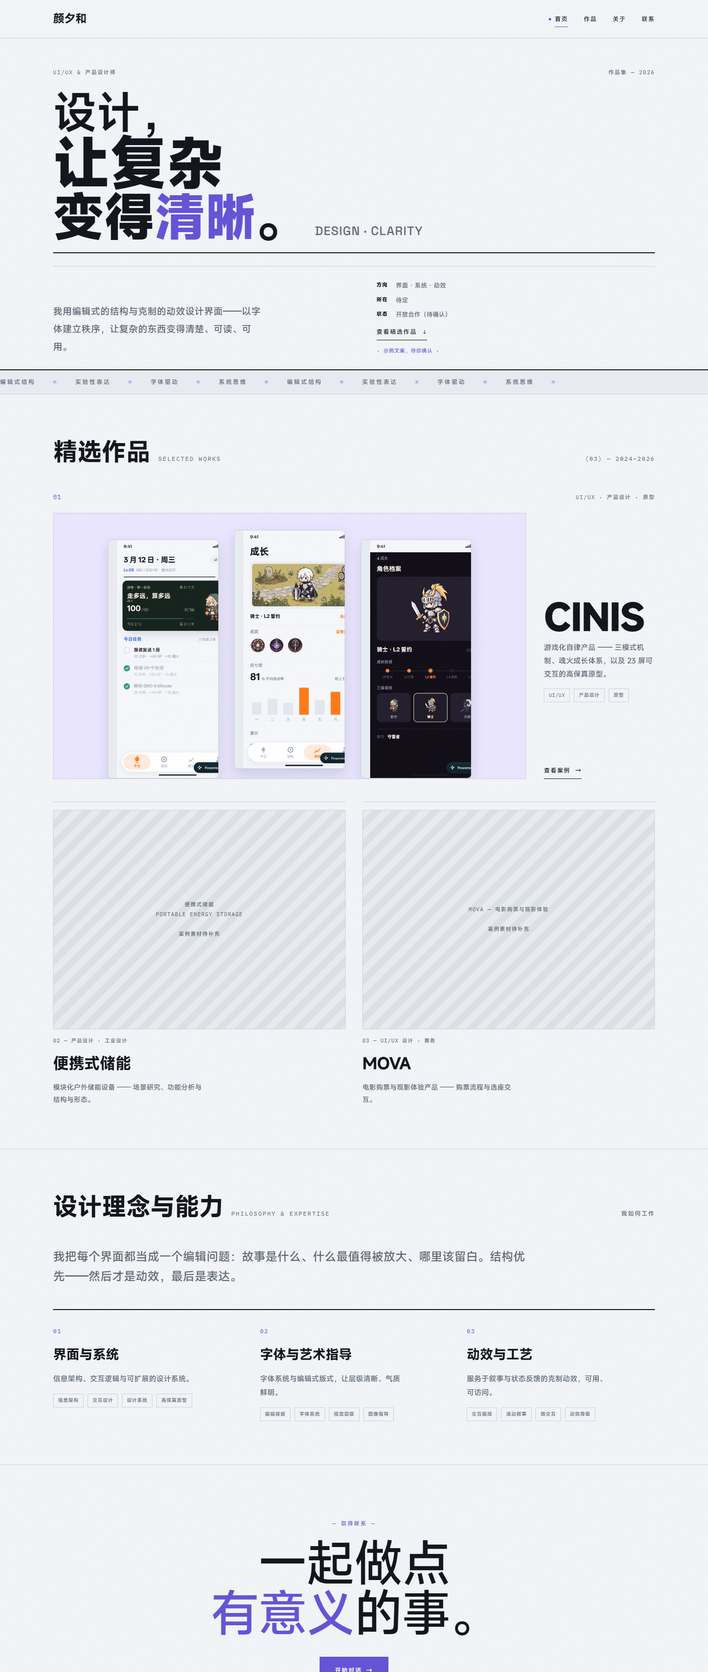
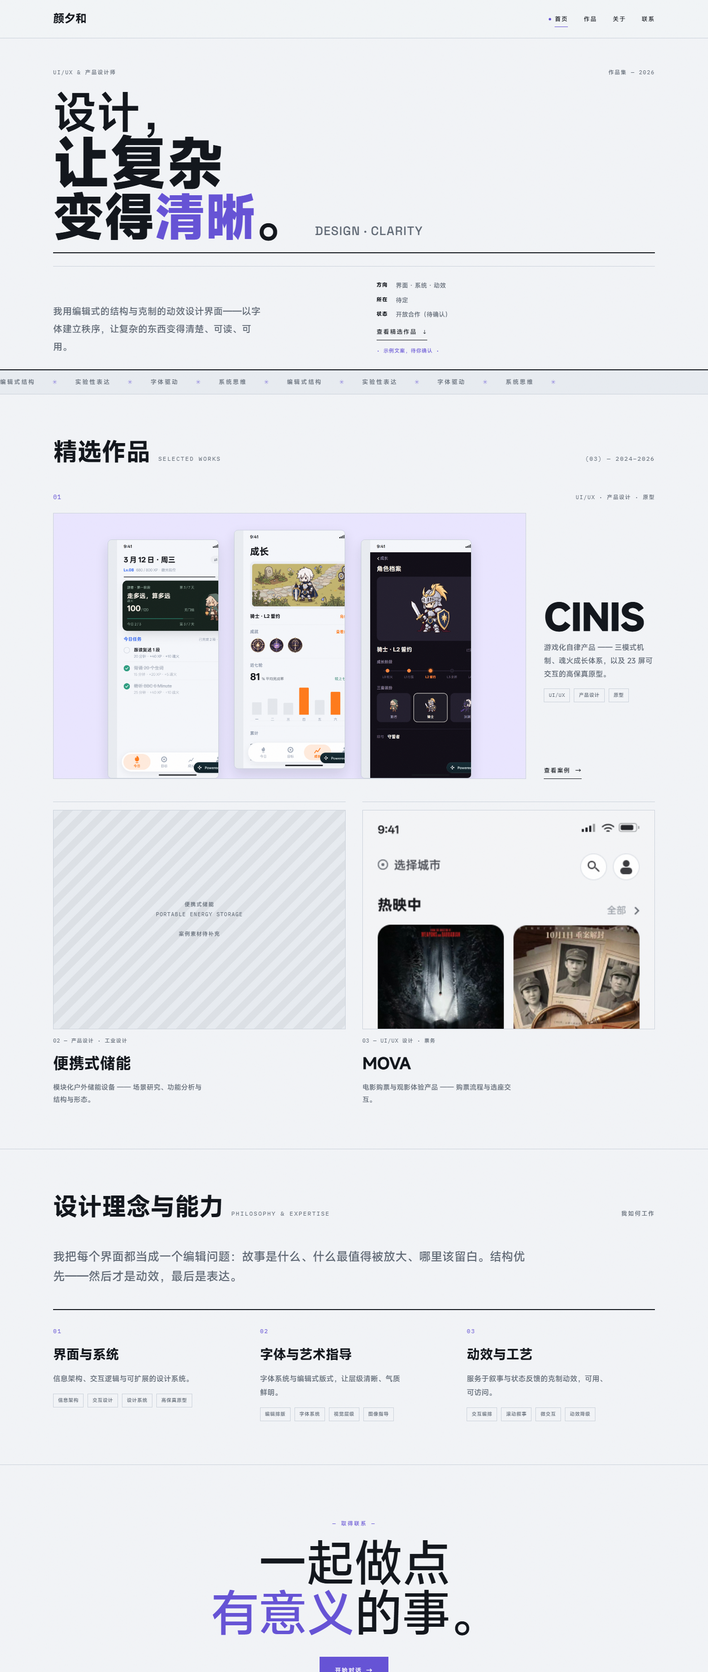
feat(mova): case study page (13 sections) + wire cards; verify preview
- New mova.html: hero duo (seat-select + e-ticket), sessions by time/cinema, seat interaction (overview/zoom/selected), checkout/payment/e-ticket, long-image scroll+full-view, missing-material placeholders
- index/works MOVA cards -> mova.html with real cover
- style.css MOVA case styles; assets/mova 15 PNG used as-is
- docs: PHASE-08 report; correct image encoding (PNG, not WebP)

Changed region(s): [[0.5312, 0.4676, 0.9062, 0.6235]]

diff --git a/experiments/art-direction/direction-b-modern-editorial/mova.html b/experiments/art-direction/direction-b-modern-editorial/mova.html
@@ -1,0 +1,187 @@
+<!doctype html>
+<html lang="zh-CN">
+<head>
+<meta charset="utf-8"><meta name="viewport" content="width=device-width,initial-scale=1">
+<title>MOVA — 电影购票体验 · 案例研究 · 颜夕和</title>
+<meta name="description" content="MOVA 电影购票与观影体验案例：影片详情 → 场次筛选 → 选座 → 确认订单 → 支付 → 电子票，一条完整的购票体验。">
+<meta property="og:type" content="article"><meta property="og:locale" content="zh_CN">
+<meta property="og:site_name" content="颜夕和 · Portfolio">
+<meta property="og:title" content="MOVA — 电影购票体验 · 颜夕和">
+<meta property="og:description" content="MOVA 电影购票与观影体验：从查看场次、选座到获取电子票的完整购票体验。">
+<script>document.documentElement.className+=' js';</script>
+<link rel="preconnect" href="https://fonts.googleapis.com"><link rel="preconnect" href="https://fonts.gstatic.com" crossorigin>
+<link href="https://fonts.googleapis.com/css2?family=Space+Grotesk:wght@400;500;600;700&family=Inter:wght@300;400;500;600;700&family=IBM+Plex+Mono:wght@400;500&display=swap" rel="stylesheet">
+<link href="https://fonts.googleapis.com/css2?family=Noto+Sans+SC:wght@400;500;700&display=swap" rel="stylesheet">
+<link rel="stylesheet" href="https://cdn.jsdelivr.net/npm/misans@5.0.0/lib/Normal/MiSansVF.min.css">
+<link rel="stylesheet" href="style.css">
+</head>
+<body>
+<header class="site-nav">
+  <div class="inner">
+    <a class="brand" href="index.html">颜夕和</a>
+    <nav>
+      <a href="index.html">首页</a>
+      <a href="works.html" class="active">作品</a>
+      <a href="about.html">关于</a>
+      <a href="contact.html">联系</a>
+    </nav>
+  </div>
+</header>
+
+<main class="page-fade cs mova cs-mova">
+<!-- 01 COVER -->
+<section class="cs-cover mova-cover">
+  <div class="wrap">
+    <div class="kick"><span class="en">案例 03 / 03</span><span class="en">UI/UX 设计</span><span class="en">2026</span></div>
+    <h1 class="zh-h1" style="margin-top:14px">MOVA<span class="accent">.</span></h1>
+    <p class="dek zh-body" style="max-width:52ch">电影购票与观影体验：从查看场次、选定座位，到获取电子票——一条完整的购票体验。</p>
+    <div class="cs-meta">
+      <div><b>角色</b><span class="zh">UI/UX 设计</span></div>
+      <div><b>交付物</b><span class="zh">购票主流程 · 选座与场次交互 · 高保真界面</span></div>
+      <div><b>工具</b><span class="zh">UI 设计（素材为界面导出）</span></div>
+      <div><b>时间</b><span class="zh">待补充</span></div>
+    </div>
+
+    <div class="cover-duo rv">
+      <div class="ph"><img src="assets/mova/09-seat-select.png" alt="MOVA 选座"></div>
+      <div class="ph"><img src="assets/mova/13-payment-success.png" alt="MOVA 支付成功 · 电子票"></div>
+    </div>
+    <div class="cover-rel"><span>选座</span><span class="line"></span><span>支付 · 电子票</span></div>
+  </div>
+</section>
+
+<div class="cs-body">
+  <!-- 02 OVERVIEW -->
+  <div class="cs-marker"><h2 class="zh">项目概述 <span class="en">Overview</span></h2><span class="mono">01</span></div>
+  <p class="drop zh-body">MOVA 是一款电影发现与购票应用，覆盖观影前的完整决策与交易链路：从选城市、看热映 / 即将上映，到影片详情、选场次、选座、下单支付，最终获得一张可直接入场的电子票。</p>
+  <p class="note">页面内容依据现有界面与已确认资料撰写；未提供的用户研究、竞品与成果数据标为 TODO，不虚构。</p>
+
+  <!-- 03 BACKGROUND -->
+  <div class="cs-marker"><h2 class="zh">背景与场景 <span class="en">Background &amp; Context</span></h2><span class="mono">02</span></div>
+  <p class="zh-body">看电影的决策往往发生在移动端、且时间碎片化：用户要在一屏里快速判断「看什么、去哪家、几点、坐哪」再完成支付。体验的关键不只是界面好看，而是把这条链路做得<b>短、清晰、可信</b>。</p>
+  <span class="todo-line">素材待补充：用户研究 / 场景访谈（未提供，暂不编造）</span>
+
+  <!-- 04 PROBLEM & GOALS -->
+  <div class="cs-marker"><h2 class="zh">设计问题与目标 <span class="en">Problem &amp; Goals</span></h2><span class="mono">03</span></div>
+  <p class="zh-body">购票环节的典型摩擦在于「信息过载」与「决策后置」：场次多、影院多、价格 / 距离 / 格式差异大；座位又必须在支付前一次性选好。设计需要让用户在尽量少的步骤里做出有把握的选择，并对结果（价格、座位、票据）有确定的预期。</p>
+  <div class="logic">
+    <span class="lb">设计目标 · Goals（目标表述）</span>
+    <ul>
+      <li><b>清晰</b><span>场次在价格、格式、距离、余票之间可快速比较，降低选择成本。</span></li>
+      <li><b>可信</b><span>选座状态（可选 / 已售 / 推荐）与结算金额清晰可见，减少支付前的不确定。</span></li>
+      <li><b>闭环</b><span>从选座到电子票一气呵成，购票完成后票据即刻可用。</span></li>
+    </ul>
+  </div>
+
+  <!-- 05 POSITIONING -->
+  <div class="cs-marker"><h2 class="zh">产品定位 <span class="en">Positioning</span></h2><span class="mono">04</span></div>
+  <p class="zh-body">MOVA 把「发现」与「交易」放在同一条流里：先以海报与评分激发兴趣，再在同一路径内完成场次、选座与支付。用户在浏览影片的过程中即可进入购票，不必在多个页面间跳转。</p>
+  <span class="todo-line">素材待补充：竞品分析 / 定位论证（未提供）</span>
+
+  <!-- 06 IA -->
+  <div class="cs-marker"><h2 class="zh">信息架构 <span class="en">Information Architecture</span></h2><span class="mono">05</span></div>
+  <p class="zh-body">底部三个 Tab：电影 · 影院 · 我的。电影作为主入口承载发现与购票主链路；「我的」聚合订单与个人资产。</p>
+  <div class="ia rv">
+    <div class="tab"><h4>电影 <span class="en" style="display:inline;font-size:9px">Movie</span></h4><ul class="zh-body"><li>城市选择</li><li>热映 / 即将上映</li><li>影片详情</li><li>场次</li></ul></div>
+    <div class="tab"><h4>影院 <span class="en" style="display:inline;font-size:9px">Cinema</span></h4><ul class="zh-body"><li>影院列表</li><li>影院详情</li><li>（素材待补充）</li></ul></div>
+    <div class="tab"><h4>我的 <span class="en" style="display:inline;font-size:9px">Me</span></h4><ul class="zh-body"><li>想看 / 已看</li><li>我的订单</li><li>优惠券</li></ul></div>
+    <div class="tab"><h4>辅助 <span class="en" style="display:inline;font-size:9px">System</span></h4><ul class="zh-body"><li>通知</li><li>支付方式</li><li>关于 MOVA</li></ul></div>
+  </div>
+  <span class="todo-line">素材待补充：影院 Tab 独立界面（仅底部存在，未提供截图）· 线框图</span>
+
+  <!-- 07 FLOW + MOVIE DETAIL -->
+  <div class="cs-marker"><h2 class="zh">主流程与影片详情 <span class="en">Main Flow &amp; Movie Detail</span></h2><span class="mono">06</span></div>
+  <p class="zh-body">完整链路：启动 → 电影首页 → 影片详情 → 场次 → 选座 → 确认订单 → 支付 → 电子票 → 我的订单。影片详情页承接「要不要看」到「去看哪一场」的转折。</p>
+  <div class="flow rv">
+    <span class="step">启动</span><span class="arrow">→</span><span class="step hi">电影首页</span><span class="arrow">→</span>
+    <span class="step hi">影片详情</span><span class="arrow">→</span><span class="step">场次</span><span class="arrow">→</span>
+    <span class="step">选座</span><span class="arrow">→</span><span class="step">确认订单</span><span class="arrow">→</span>
+    <span class="step">支付</span><span class="arrow">→</span><span class="step hi">电子票</span><span class="arrow">→</span><span class="step">我的订单</span>
+  </div>
+  <p class="zh-body" style="font-size:14.5px;color:var(--text2)">影片详情为长页面（含海报、简介、评分、演职员、剧照与「查找场次」入口）。下方可<b>滚动查看完整长图</b>，或点「查看完整长图」在新窗口打开原图；移动端同样可上下滚动查看。</p>
+  <div class="screens rv" style="align-items:start">
+    <figure class="longshot-wrap" style="grid-column:span 6">
+      <div class="longshot"><img src="assets/mova/04-movie-about.png" alt="影片详情长图 1"></div>
+      <div class="cap"><span>影片详情 · 长图（可滚动）</span><a href="assets/mova/04-movie-about.png" target="_blank" rel="noopener">查看完整长图 ↗</a></div>
+    </figure>
+    <figure class="longshot-wrap" style="grid-column:span 6">
+      <div class="longshot"><img src="assets/mova/05-movie-about-alt.png" alt="影片详情长图 2"></div>
+      <div class="cap"><span>影片详情 · 另一状态（辅助）</span><a href="assets/mova/05-movie-about-alt.png" target="_blank" rel="noopener">查看完整长图 ↗</a></div>
+    </figure>
+  </div>
+
+  <!-- 08 SESSIONS -->
+  <div class="cs-marker"><h2 class="zh">筛选场次 <span class="en">Sessions</span></h2><span class="mono">07</span></div>
+  <p class="zh-body">场次提供两种查找方式：<b>按时段</b>（时间优先，快速找最近可看的场）与<b>按影院</b>（影院优先，锁定想去的影院再选时间）。两者都是「场次筛选」的不同视角，行内组合 2D / IMAX / 4D 格式、价格、距离与余票提示。</p>
+  <div class="screens rv">
+    <figure class="shot" style="grid-column:span 6"><div class="frame"><img src="assets/mova/06-sessions-by-time.png" alt="场次按时段"></div><figcaption><b>按时段 · 时间优先</b>先看时间与价格，适合「今天就想看一场」的即时决策。</figcaption></figure>
+    <figure class="shot" style="grid-column:span 6"><div class="frame"><img src="assets/mova/07-sessions-by-cinema.png" alt="场次按影院"></div><figcaption><b>按影院 · 影院优先</b>先锁定影院，再比较该院不同时间与格式——属于场次筛选的另一种排序。</figcaption></figure>
+  </div>
+
+  <!-- 09 SEAT (KEY) -->
+  <div class="cs-marker"><h2 class="zh">选座交互 <span class="en">Seat Selection</span></h2><span class="mono">08 · 重点</span></div>
+  <p class="zh-body">选座是这条链路的核心决策。界面用银幕弧线建立空间感，用图例区分<b>可选 / 已售 / 最佳位置</b>，并给出「推荐」与已选反馈，让用户在支付前对「坐哪」有把握。</p>
+  <div class="screens rv">
+    <figure class="shot"><div class="frame"><img src="assets/mova/08-seat-overview.png" alt="选座总览"></div><figcaption><b>总览</b>整厅座位一屏可见，银幕方向与分区一目了然。</figcaption></figure>
+    <figure class="shot"><div class="frame"><img src="assets/mova/09-seat-select.png" alt="选座放大"></div><figcaption><b>放大 · 推荐</b>可缩放到近处细选；橙色「推荐」标出最佳观影区。</figcaption></figure>
+    <figure class="shot"><div class="frame"><img src="assets/mova/10-selected-seat.png" alt="已选座"></div><figcaption><b>已选反馈</b>选中座位即时高亮，数量与位置同步，便于确认。</figcaption></figure>
+  </div>
+  <div class="logic">
+    <span class="lb">设计逻辑 · Design Logic（据界面状态推断）</span>
+    <ul>
+      <li><b>可读性</b><span>用颜色与图例区分可选 / 已售 / 推荐，减少误选与重复尝试。</span></li>
+      <li><b>引导</b><span>「推荐」把最佳座位前置为默认最优解，降低决策成本。</span></li>
+      <li><b>确认感</b><span>已选状态即时反馈，让用户在进入结算前确认无误。</span></li>
+    </ul>
+  </div>
+
+  <!-- 10 UI VISUAL SYSTEM -->
+  <div class="cs-marker"><h2 class="zh">UI 视觉系统 <span class="en">UI Visual System</span></h2><span class="mono">09</span></div>
+  <p class="zh-body">MOVA 以<b>橙红</b>作为主操作色（购票 / 主按钮），浅灰白底配圆角卡片，海报使用深色大图拉开层级；评分、标签用中性灰与状态色区分。以下为界面观察，原始规范待你提供后精确化。</p>
+  <div class="screens rv">
+    <figure class="shot"><div class="frame"><img src="assets/mova/02-movie-logged-out.png" alt="首页未登录"></div><figcaption><b>电影首页 · 未登录</b>热映 / 即将上映分区，登录条提示获取推荐。</figcaption></figure>
+    <figure class="shot"><div class="frame"><img src="assets/mova/03-movie-logged-in.png" alt="首页已登录"></div><figcaption><b>电影首页 · 已登录</b>登录态下展示个性化内容。</figcaption></figure>
+    <figure class="shot"><div class="frame"><img src="assets/mova/14-mine.png" alt="我的"></div><figcaption><b>我的</b>想看 / 已看、订单与优惠券聚合。</figcaption></figure>
+  </div>
+  <span class="todo-line">素材待补充：原始视觉规范（色值 / 字号 / 组件）——当前为界面近似，未编造数值</span>
+
+  <!-- 11 CHECKOUT / PAYMENT / E-TICKET -->
+  <div class="cs-marker"><h2 class="zh">确认订单 · 支付 · 电子票 <span class="en">Checkout · Payment · E-Ticket</span></h2><span class="mono">10</span></div>
+  <p class="zh-body">确认订单页把「看什么、哪家、几号厅、几点、哪两个座」一次性讲清，并以优惠券直接体现价格变化（合计 ¥91 → 用券后 ¥81）。支付完成后进入电子票页，含条形码与订单号，票据即可入场。</p>
+  <div class="screens rv">
+    <figure class="shot"><div class="frame"><img src="assets/mova/11-checkout.png" alt="确认订单"></div><figcaption><b>确认订单</b>影片 / 影院 / 场次 / 座位与费用明细同屏，优惠券自动套用。</figcaption></figure>
+    <figure class="shot"><div class="frame"><img src="assets/mova/12-payment.png" alt="支付"></div><figcaption><b>支付</b>清晰的金额与主按钮，聚焦完成交易。</figcaption></figure>
+    <figure class="shot"><div class="frame"><img src="assets/mova/13-payment-success.png" alt="支付成功·电子票"></div><figcaption><b>电子票</b>支付成功 + 条形码票据 + 订单号，可直接入场。</figcaption></figure>
+  </div>
+  <figure class="shot" style="grid-column:span 4;max-width:320px"><div class="frame"><img src="assets/mova/12b-payment-alt.png" alt="支付变体"></div><figcaption><b>支付 · 变体（辅助）</b>另一支付状态展示，层级从简。</figcaption></figure>
+  <div class="logic">
+    <span class="lb">设计逻辑 · Design Logic</span>
+    <ul>
+      <li><b>透明</b><span>费用与优惠在支付前一次讲清，减少「最后一步才发现」的挫败。</span></li>
+      <li><b>收尾</b><span>成功页以电子票作为「已完成」的实体凭证，强化闭环与信任。</span></li>
+    </ul>
+  </div>
+
+  <!-- 12 PROTOTYPE -->
+  <div class="cs-marker"><h2 class="zh">交互原型 <span class="en">Interactive Prototype</span></h2><span class="mono">11</span></div>
+  <p class="zh-body">MOVA 的交互原型尚未提供可访问链接。拿到链接或 Figma 后，将在此提供内嵌预览与外链入口。</p>
+  <span class="todo-line">素材待补充：交互原型链接（Figma / 在线）——到位后接入内嵌 + 外链</span>
+
+  <!-- 13 REFLECTION -->
+  <div class="cs-marker"><h2 class="zh">总结 <span class="en">Reflection</span></h2><span class="mono">12</span></div>
+  <p class="zh-body">MOVA 呈现了一条完整的购票体验：以发现激发兴趣，用场次与选座把选择讲清，再以订单、支付与电子票完成闭环。本案例交付现有材料可支持的<b>高保真界面与主流程</b>；研究成果与效果数据待补。</p>
+  <p class="pull zh-body">把「看什么」到「坐哪、怎么付、怎么入场」讲成一条清晰的路。</p>
+  <p class="note">成果指标、用户测试与竞品结论：TODO —— 待素材补充后再写，不虚构。</p>
+  <p style="margin:34px 0 10px"><a class="btn" href="works.html">← 返回作品</a></p>
+</div>
+</main>
+
+<footer class="footer">
+  <div class="wrap">
+    <span class="en">© 2026 颜夕和 — 个人作品集</span>
+    <span class="en">MOVA · 案例研究</span>
+  </div>
+</footer>
+<script src="app.js"></script>
+</body>
+</html>

diff --git a/experiments/art-direction/direction-b-modern-editorial/style.css b/experiments/art-direction/direction-b-modern-editorial/style.css
@@ -546,3 +546,24 @@ a:focus-visible,button:focus-visible,.filters button:focus-visible{outline:2px s
 .modes .mode .fig img{max-height:210px}
 .cs-cover h1{font-size:clamp(80px,15vw,210px)}
 @media(max-width:900px){.cs-cover .cover-grid{grid-template-columns:1fr;gap:20px;padding-top:40px}.cs-cover .cover-visual{display:none}.logic li{grid-template-columns:52px 1fr}}
+
+/* ===== MOVA case study (Phase 08) ===== */
+.mova-cover .cover-grid{grid-template-columns:1fr 1.02fr;align-items:center}
+.cover-duo{display:flex;gap:16px;align-items:flex-start;justify-content:center;padding:10px 0 30px}
+.cover-duo .ph{width:45%;border:8px solid #11151B;border-radius:26px;overflow:hidden;box-shadow:0 22px 42px rgba(17,21,27,.20);background:#fff}
+.cover-duo .ph img{width:100%;display:block}
+.cover-duo .ph:nth-child(2){transform:translateY(30px)}
+.cover-rel{display:flex;align-items:center;gap:10px;justify-content:center;font-family:var(--font-mono);font-size:11px;letter-spacing:.1em;text-transform:uppercase;color:var(--text2);margin-top:34px}
+.cover-rel .line{height:1px;width:40px;background:var(--color-border)}
+.longshot{border:1px solid var(--line);background:var(--surface);border-radius:10px;overflow:auto;max-height:620px}
+.longshot img{width:100%;display:block}
+.longshot-wrap{margin:0}
+.longshot-wrap .cap{font-family:var(--font-mono);font-size:10.5px;letter-spacing:.06em;text-transform:uppercase;color:var(--text2);margin:10px 0 0;display:flex;justify-content:space-between;gap:10px}
+.longshot-wrap .cap a{color:var(--color-accent)}
+.todo-line{font-family:var(--font-mono);font-size:11px;letter-spacing:.05em;color:var(--text2);border:1px dashed var(--color-border);padding:8px 12px;border-radius:6px;display:inline-block;margin:10px 0}
+.mova-note{font-family:var(--font-mono);font-size:10.5px;letter-spacing:.04em;color:var(--text2)}
+@media(max-width:900px){.mova-cover .cover-grid{grid-template-columns:1fr}.cover-duo .ph:nth-child(2){transform:none}.longshot{max-height:520px}}
+
+/* MOVA covers in cards */
+.dup .cover img{width:100%;height:100%;object-fit:cover;object-position:top center;display:block}
+

diff --git a/experiments/art-direction/direction-b-modern-editorial/works.html b/experiments/art-direction/direction-b-modern-editorial/works.html
@@ -56,8 +56,8 @@
       <div class="cap"><h3 class="zh">便携式储能</h3><span class="n">02 — 产品设计</span></div>
       <p class="desc zh-body">模块化户外储能设备。案例结构已预留，图像待补充。</p>
     </article>
-    <article class="wcard wide rv" data-cat="uiux">
-      <div class="frame"><div class="placeholder">MOVA — 电影购票与观影体验<br><br>案例素材待补充</div></div>
+    <article class="wcard wide rv" data-cat="uiux" onclick="location.href='mova.html'">
+      <div class="frame"><img src="assets/mova/02-movie-logged-out.png" alt="MOVA 电影首页"></div>
       <div class="cap"><h3 class="zh">MOVA</h3><span class="n">03 — UI/UX 设计 · 票务</span></div>
       <p class="desc zh-body">电影购票与观影体验产品——购票流程与选座交互。案例结构已预留，图像待补充。</p>
     </article>

diff --git a/experiments/art-direction/direction-b-modern-editorial/index.html b/experiments/art-direction/direction-b-modern-editorial/index.html
@@ -83,8 +83,8 @@
         <h3>便携式储能</h3>
         <p>模块化户外储能设备 —— 场景研究、功能分析与结构与形态。</p>
       </a>
-      <a class="item rv" href="works.html">
-        <div class="cover"><div class="placeholder">MOVA — 电影购票与观影体验<br><br>案例素材待补充</div></div>
+      <a class="item rv" href="mova.html">
+        <div class="cover"><img src="assets/mova/02-movie-logged-out.png" alt="MOVA 电影首页"></div>
         <div class="meta">03 — UI/UX 设计 · 票务</div>
         <h3>MOVA</h3>
         <p>电影购票与观影体验产品 —— 购票流程与选座交互。</p>

diff --git a/docs/PHASE-08-REPORT.md b/docs/PHASE-08-REPORT.md
@@ -1,0 +1,70 @@
+# PHASE 08 REPORT — MOVA 案例页初版（开发与验收）
+
+> Branch: `portfolio-redesign` · Direction B · Modern Editorial · Hero A · Modern Iris
+> 本轮：在作品集原型中开发 MOVA 案例页初版并完成验收。**未改生产 / 未合并 main / 未部署。**
+
+## 1. 预览地址
+- 本地预览：**http://127.0.0.1:8123/mova.html**（静态预览服务，根目录为原型 `direction-b-modern-editorial/`）
+- 也可访问：`http://127.0.0.1:8123/index.html`（首页）、`/works.html`、`/cinis.html`
+- 进入路径：首页/作品页 → MOVA 卡片 → 案例页；页面末端「← 返回作品」回列表。
+
+## 2. 页面结构（13 段，承接大纲）
+1. Cover（首屏主视觉：`09-seat-select` + `13-payment-success` 双机，标注「选座 → 支付·电子票」）
+2. 项目概述 Overview
+3. 背景与场景 Background & Context
+4. 设计问题与目标 Problem & Goals（目标表述，不写成果数据）
+5. 产品定位 Positioning
+6. 信息架构 Information Architecture（三 Tab）
+7. 主流程与影片详情 Main Flow & Movie Detail（流程图 + `04/05` 长图，可滚动 + 「查看完整长图」链接）
+8. 筛选场次 Sessions（`06` 按时段 + `07` 按影院 并排，讲清两种查找方式）
+9. 选座交互 Seat Selection【重点】（`08` 总览 / `09` 放大·推荐 / `10` 已选；可选·已售·推荐·已选反馈）
+10. UI 视觉系统 UI Visual System（MOVA 橙红保留；附 `02/03/14` 辅助界面）
+11. 确认订单·支付·电子票（`11/12/13` + `12b` 变体；优惠券 ¥91→¥81；电子票条码）
+12. 交互原型 Prototype（**素材待补充**，拿到链接后接入）
+13. 总结 Reflection（成果/研究 TODO，不虚构）
+
+设计外壳沿用 Modern Editorial（紫强调、MiSans/Inter/等宽、12 栏、响应式）；**MOVA 界面保留原有橙红**；手机截图保持原比例。
+
+## 3. 待补素材 → 对应章节
+| 待补素材 | 页面位置 |
+|---|---|
+| 交互原型（Figma/在线） | §12 交互原型（现为一行「素材待补充」） |
+| 独立影院 Tab 界面 | §06 信息架构（影院 Tab 下） |
+| 研究 / 竞品 | §03 背景与场景 · §05 产品定位 |
+| IA / 线框图 | §06 信息架构 · §07 主流程 |
+| 原始视觉规范（色值/字号） | §10 UI 视觉系统 |
+
+## 4. 改动文件
+- 新增：`experiments/art-direction/direction-b-modern-editorial/mova.html`
+- 修改：`style.css`（MOVA 案例样式：双机首屏 / 长图滚动 / 待补充标记 / 卡片封面）
+- 修改：`index.html`、`works.html`（MOVA 卡片 → 链接 `mova.html`，封面换真实图 `assets/mova/02-movie-logged-out.png`）
+- 素材：`assets/mova/`（15 张，已在上轮整合并随仓库）
+- 文档：`docs/PHASE-08-REPORT.md`；修正 `MOVA-ASSET-REPORT.md` / `MOVA-INTEGRATION-ACCEPTANCE.md` / `MANIFEST.md` 的编码说明
+
+## 5. 验证结果（验收）
+| 项 | 结果 |
+|---|---|
+| 从项目卡进入 MOVA | ✅ 首页/作品页 MOVA 卡片 → `mova.html` |
+| 直接访问 / 刷新 | ✅ `http://127.0.0.1:8123/mova.html` 200 |
+| 返回作品列表 | ✅ 页尾「← 返回作品」→ `works.html` |
+| 链接 / 图片校验（静态） | ✅ 6 页全部本地 href/src 解析通过；MOVA 资源 15/15 存在 |
+| 预览服务资源 | ✅ mova/index/cinis 均 200；图片以 `image/png` 正常返回 |
+| 桌面 1440 整页 | ✅ `_shots/ME-mova-desktop.png` |
+| 手机 390 整页 | ✅ `_shots/ME-mova-mobile.png`；单栏、无横向溢出 |
+| 长图查看 | ✅ `04/05` 容器可滚动 + 「查看完整长图 ↗」新窗口；移动端可上下滚动 |
+| 截图清晰度 | ✅ 原始 PNG（393×852 / 长图 393×1683）直接引用，未二次压缩 |
+| **图片编码核对** | ⚠ **素材实际为 PNG（magic `89 50 4E 47`），并非 WebP**；已按实际编码服务与引用，并修正相关文档说明 |
+| 构建命令 | ⚠ 仓库为 Vite/React 应用，但本机 **未安装 pnpm、无 node_modules**；且本轮页面为 `experiments/` 下的**静态原型**（无构建步骤）。已用「静态链接/图片校验 + headless 渲染 + 本地静态服务器」替代构建验证；如需跑 `pnpm build` 需先 `pnpm install`（且该命令构建的是 CINIS React 应用，非本静态原型）。 |
+
+## 6. 截图
+- 桌面整页：`experiments/art-direction/direction-b-modern-editorial/_shots/ME-mova-desktop.png`
+- 手机整页：`.../_shots/ME-mova-mobile.png`
+- 首页（MOVA 卡真实封面）：`.../_shots/ME-home-desktop.png`；作品页：`.../_shots/ME-works-desktop.png`
+
+## 7. 说明与边界
+- 文案依据现有界面与已确认资料撰写；设计目标用「目标表述」；成果仅写可支持的交付（高保真界面 + 主流程），研究/指标/竞品保持 TODO。
+- MOVA 原始素材只读、未改；MOVA 配色保留；仅作品集外壳统一。
+- `main` / `gh-pages` / `cinis.netlify.app` 未动。
+
+## 8. TODO
+交互原型链接、影院 Tab、研究/竞品、IA/线框、原始视觉规范；MOVA 项目时间线/成果数据（若有）。

diff --git a/docs/MOVA-ASSET-REPORT.md b/docs/MOVA-ASSET-REPORT.md
@@ -1,7 +1,7 @@
 # MOVA ASSET RECEIPT REPORT
 
 > Phase 07 · Source: `C:\Users\35335\Desktop\MOVA\` · Backed up read-only to `assets/source/mova-original/` · Hash list: `assets/source/mova-assets-hashes.csv`.
-> **15 files · 2.42 MB · all phone screens 393×852 (04/05 taller 393×1683).** Files carry `.png` extension but are **WebP** encoded.
+> **15 files · 2.42 MB · all phone screens 393×852 (04/05 taller 393×1683).** Files carry `.png` extension but are **PNG** encoded.
 
 ---
 
